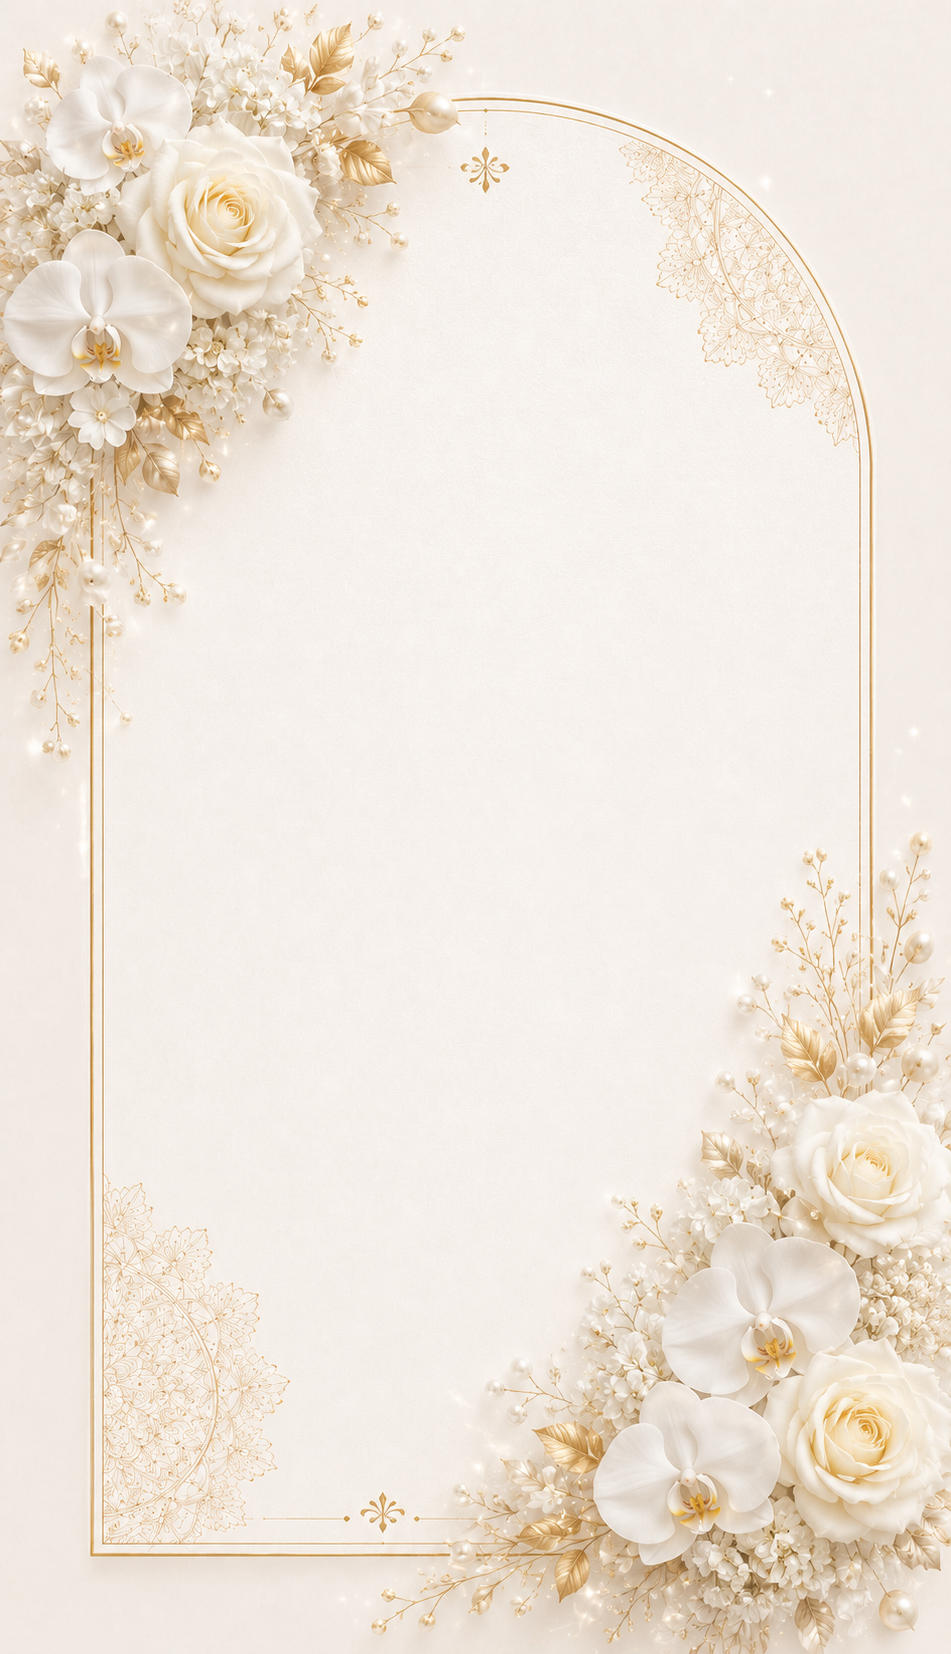
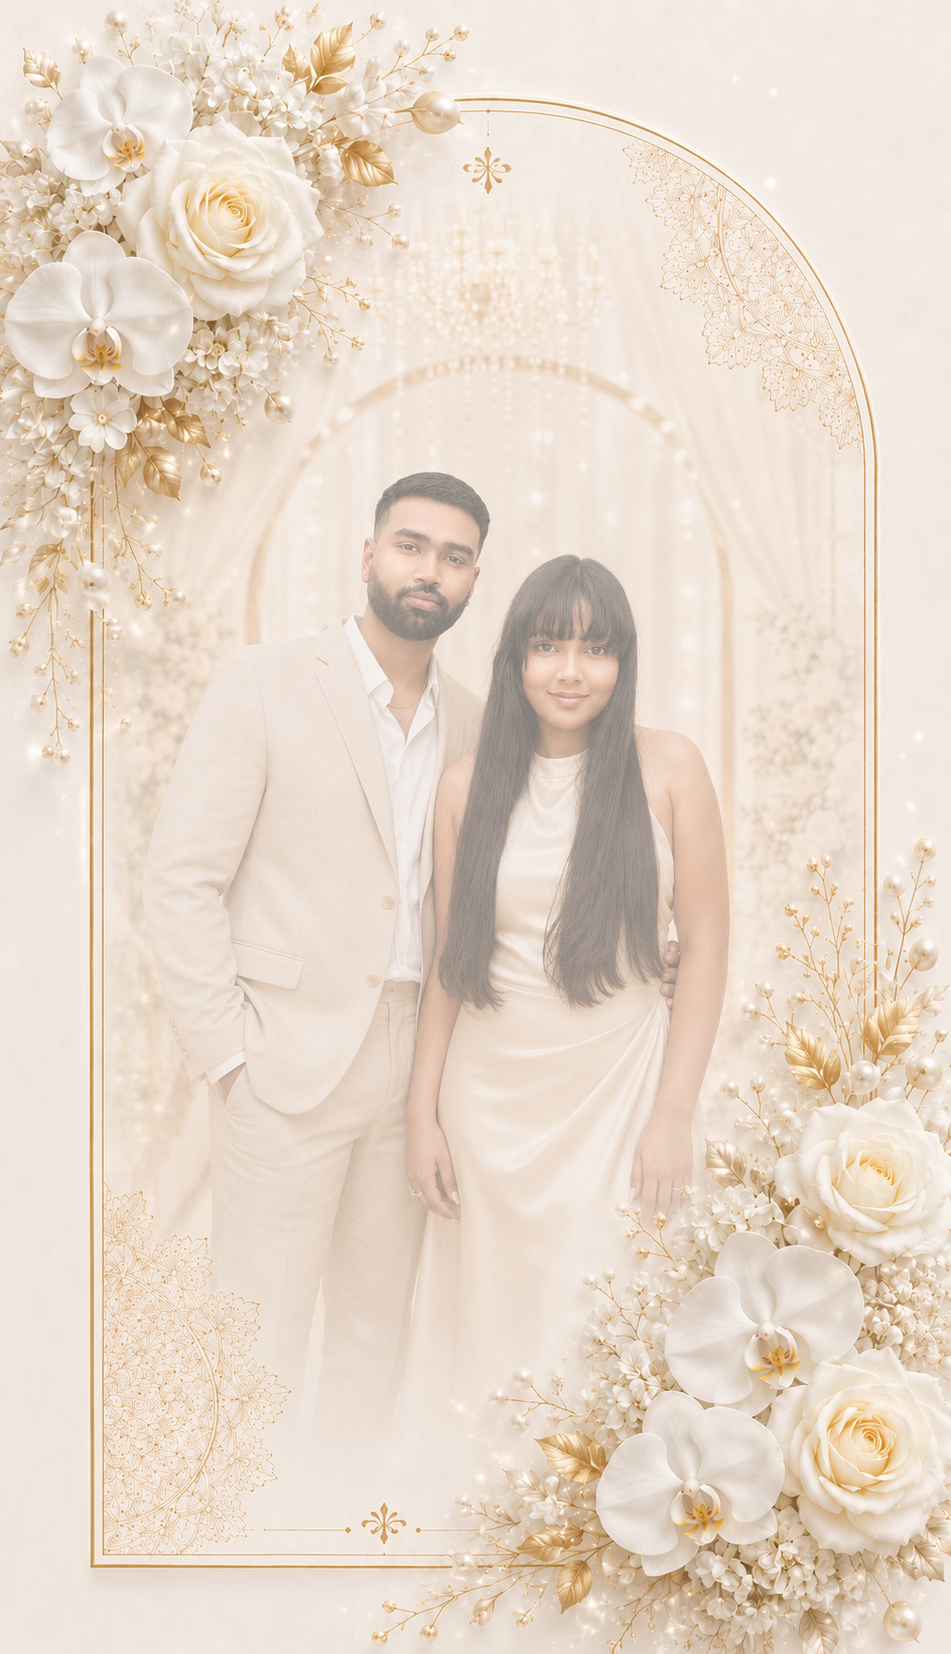
j

diff --git a/src/App.tsx b/src/App.tsx
@@ -251,6 +251,106 @@ function WeddingEnvelope({ onOpen }: { onOpen: () => void }) {
     </motion.div>
   );
 }
+function WelcomeSection() {
+  return (
+    <section className="cv-auto py-24 md:py-32 bg-white relative overflow-hidden border-t border-theme-100/30">
+      <div className="absolute inset-0 opacity-[0.02] paper-grain pointer-events-none" />
+      <div className="container mx-auto px-6 max-w-4xl relative z-10 text-center">
+        <motion.div initial={{ opacity: 0, y: 20 }} whileInView={{ opacity: 1, y: 0 }} viewport={{ once: true }}>
+          <h2 className="font-playball text-4xl md:text-5xl text-theme-900 mb-6 drop-shadow-sm">Welcome to Our Wedding</h2>
+          <div className="w-16 h-px bg-amber-400 mx-auto mb-8" />
+          <p className="text-stone-600 font-montserrat text-sm md:text-base leading-loose max-w-2xl mx-auto">
+            Love knows no distance or borders. What began miles apart has led us to this beautiful day. Thank you for celebrating the beginning of our forever. Your love and blessings mean the world to us.
+          </p>
+        </motion.div>
+      </div>
+    </section>
+  );
+}
+
+function OurStorySection() {
+  return (
+    <section className="cv-auto py-24 md:py-32 bg-white relative overflow-hidden border-t border-theme-100/30">
+      <div className="absolute inset-0 opacity-[0.02] paper-grain pointer-events-none" />
+      <div className="container mx-auto px-6 max-w-4xl relative z-10 text-center">
+        <motion.div initial={{ opacity: 0, y: 20 }} whileInView={{ opacity: 1, y: 0 }} viewport={{ once: true }}>
+          <h2 className="font-playball text-4xl md:text-5xl text-theme-900 mb-6 drop-shadow-sm">Our Story</h2>
+          <div className="w-16 h-px bg-amber-400 mx-auto mb-8" />
+          <p className="text-stone-600 font-montserrat text-sm md:text-base leading-loose max-w-2xl mx-auto">
+            From Canada to the United States, distance brought us closer rather than apart. Two years of love, trust, and unforgettable memories led us here. Today, we begin our forever together.
+          </p>
+        </motion.div>
+      </div>
+    </section>
+  );
+}
+
+function ProposalSection() {
+  return (
+    <section className="cv-auto py-24 md:py-32 bg-[#f0eceb] relative overflow-hidden border-t border-theme-100/30">
+      <div className="absolute inset-0 opacity-[0.02] paper-grain pointer-events-none" />
+      <div className="container mx-auto px-6 max-w-4xl relative z-10 text-center">
+        <motion.div initial={{ opacity: 0, y: 20 }} whileInView={{ opacity: 1, y: 0 }} viewport={{ once: true }}>
+          <h2 className="font-playball text-4xl md:text-5xl text-theme-900 mb-6 drop-shadow-sm">The Proposal</h2>
+          <div className="w-16 h-px bg-amber-400 mx-auto mb-8" />
+          <p className="text-stone-600 font-montserrat text-sm md:text-base leading-loose max-w-2xl mx-auto">
+            On December 24, 2024, beneath the lights of Central Park, New York City, Devshan asked Majori to spend forever with him. She said “Yes,” and our next chapter began. We can’t wait to celebrate with you on August 8, 2026.
+          </p>
+        </motion.div>
+      </div>
+    </section>
+  );
+}
+
+function EventTimeline() {
+  const events = [
+    { time: "11:00 AM", title: "Blessing Ceremony" },
+    { time: "12:00 PM", title: "Reception" },
+    { time: "04:00 PM", title: "Going Away" },
+  ];
+
+  return (
+    <section className="cv-auto py-24 bg-white relative overflow-hidden border-t border-theme-100/30">
+      <div className="absolute inset-0 opacity-[0.02] paper-grain pointer-events-none" />
+      <div className="container mx-auto px-6 max-w-4xl relative z-10">
+        <motion.div initial={{ opacity: 0, y: 20 }} whileInView={{ opacity: 1, y: 0 }} viewport={{ once: true }} className="text-center mb-16">
+          <h2 className="font-playball text-4xl md:text-5xl text-theme-900 mb-4 drop-shadow-sm">Event Timeline</h2>
+          <p className="text-[10px] md:text-xs uppercase tracking-[0.3em] text-stone-500 font-bold">The flow of our special day</p>
+        </motion.div>
+
+        <div className="relative max-w-xl mx-auto">
+          {/* Vertical line */}
+          <div className="absolute left-[24px] md:left-1/2 md:-translate-x-1/2 top-4 bottom-4 w-px bg-gradient-to-b from-amber-200 via-theme-300 to-amber-200" />
+
+          <div className="space-y-12">
+            {events.map((event, index) => (
+              <motion.div
+                key={index}
+                initial={{ opacity: 0, y: 20 }}
+                whileInView={{ opacity: 1, y: 0 }}
+                viewport={{ once: true }}
+                transition={{ delay: index * 0.2 }}
+                className="relative flex items-center md:justify-between w-full"
+              >
+                {/* Mobile Icon (Left) or Desktop Icon (Center) */}
+                <div className="absolute left-0 md:left-1/2 md:-translate-x-1/2 w-12 h-12 bg-[#f0eceb] rounded-full border-[3px] border-white shadow-[0_4px_15px_-3px_rgba(0,0,0,0.1)] flex items-center justify-center z-10">
+                  <div className="w-3 h-3 rounded-full bg-gradient-to-br from-amber-400 to-theme-500" />
+                </div>
+
+                {/* Content Box */}
+                <div className={`ml-16 md:ml-0 md:w-[calc(50%-3rem)] bg-white p-6 rounded-2xl shadow-sm border border-amber-100/60 hover:shadow-md transition-shadow relative group text-left ${index % 2 === 0 ? "md:mr-auto md:text-right" : "md:ml-auto md:text-left"}`}>
+                  <p className="font-cinzel text-xl text-theme-900 font-bold mb-1 tracking-wide">{event.time}</p>
+                  <p className="text-[11px] uppercase tracking-[0.2em] text-stone-500 font-bold">{event.title}</p>
+                </div>
+              </motion.div>
+            ))}
+          </div>
+        </div>
+      </div>
+    </section>
+  );
+}
+
 function RSVPForm() {
   const [status, setStatus] = useState<"idle" | "submitting" | "success">("idle");
   const [name, setName] = useState("");
@@ -622,6 +722,8 @@ export default function WeddingInvitation() {
 
             </section>
 
+            <WelcomeSection />
+
             {/* Wedding Details Section */}
             <section className="cv-auto py-24 md:py-32 w-full flex flex-col items-center px-4 relative">
               <div className="section-floral-overlay absolute top-0 left-0 w-full h-full pointer-events-none overflow-hidden z-0">
@@ -753,6 +855,8 @@ export default function WeddingInvitation() {
               </div>
             </section>
 
+            <OurStorySection />
+
             {/* Countdown Section */}
             <section className="cv-auto py-24 md:py-36 bg-[#f0eceb] relative border-y border-theme-100/30 flex flex-col items-center overflow-hidden">
               {/* Premium Background Elements */}
@@ -792,6 +896,8 @@ export default function WeddingInvitation() {
               </div>
             </section>
 
+            <ProposalSection />
+
             {/* Venue Location Section */}
             <section className="cv-auto py-24 md:py-36 bg-[#f0eceb] relative overflow-hidden">
               {/* Decorative Background */}
@@ -815,7 +921,7 @@ export default function WeddingInvitation() {
                         Earls Regency Kandy
                       </h2>
                       <p className="text-xs md:text-sm text-amber-600 font-bold uppercase tracking-[0.25em]">
-                        (Ballroom)
+                        (Regent Ballroom)
                       </p>
                     </div>
 
@@ -883,6 +989,7 @@ export default function WeddingInvitation() {
             </section>
 
 
+            <EventTimeline />
             <RSVPForm />
             <WishesForm />
 
@@ -917,15 +1024,23 @@ export default function WeddingInvitation() {
                         <span className="text-theme-700 mt-4 block tracking-[0.15em]">WE CAN'T WAIT TO CELEBRATE THIS SPECIAL DAY WITH YOU!</span>
                       </p>
 
-                      <motion.img
-                        initial={{ opacity: 0, y: 24, scale: 0.95 }}
-                        whileInView={{ opacity: 0.9, y: 0, scale: 1 }}
+                      <motion.div
+                        initial={{ opacity: 0, y: 30 }}
+                        whileInView={{ opacity: 1, y: 0 }}
                         viewport={{ once: true }}
-                        transition={{ duration: 0.9, ease: "easeOut" }}
-                        src={mandalaImage}
-                        alt=""
-                        className="relative z-10 mt-8 w-40 h-40 md:w-56 md:h-56 object-contain mix-blend-multiply drop-shadow-[0_12px_24px_rgba(245,158,11,0.25)]"
-                      />
+                        transition={{ duration: 1, delay: 0.2 }}
+                        className="relative z-10 mt-12 mb-8 w-full max-w-md mx-auto px-4"
+                      >
+                        <img 
+                          src="/WhatsApp Image 2026-07-04 at 03.20.35 (1).jpeg" 
+                          alt="Couple" 
+                          className="w-full h-auto object-cover rounded-[2rem] shadow-2xl border-[8px] border-white/60"
+                        />
+                      </motion.div>
+
+
+
+
                     </div>
                   </motion.div>
                 </div>

diff --git a/src/AppSinhala.tsx b/src/AppSinhala.tsx
@@ -251,6 +251,106 @@ function WeddingEnvelope({ onOpen }: { onOpen: () => void }) {
     </motion.div>
   );
 }
+function WelcomeSection() {
+  return (
+    <section className="cv-auto py-24 md:py-32 bg-white relative overflow-hidden border-t border-theme-100/30">
+      <div className="absolute inset-0 opacity-[0.02] paper-grain pointer-events-none" />
+      <div className="container mx-auto px-6 max-w-4xl relative z-10 text-center">
+        <motion.div initial={{ opacity: 0, y: 20 }} whileInView={{ opacity: 1, y: 0 }} viewport={{ once: true }}>
+          <h2 className="font-sinhala text-4xl md:text-5xl text-theme-900 mb-6 drop-shadow-sm">අපගේ විවාහ මංගල්යයට සාදරයෙන් පිළිගනිමු</h2>
+          <div className="w-16 h-px bg-amber-400 mx-auto mb-8" />
+          <p className="text-stone-600 font-sinhala text-sm md:text-base leading-loose max-w-2xl mx-auto">
+            ආදරයට දුරක් හෝ සීමාවන් නොමැත. සැතපුම් ගණනක් දුරින් ආරම්භ වූ අපගේ ආදරය අද මෙම සුන්දර දිනය දක්වා අපව රැගෙනවිත් තිබේ. අපගේ නව දිවියේ ආරම්භය සැමරීමට එක්වීම ගැන ඔබට ස්තූතියි. ඔබගේ ආදරය සහ ආශිර්වාදය අපට ඉතා අගනේය.
+          </p>
+        </motion.div>
+      </div>
+    </section>
+  );
+}
+
+function OurStorySection() {
+  return (
+    <section className="cv-auto py-24 md:py-32 bg-white relative overflow-hidden border-t border-theme-100/30">
+      <div className="absolute inset-0 opacity-[0.02] paper-grain pointer-events-none" />
+      <div className="container mx-auto px-6 max-w-4xl relative z-10 text-center">
+        <motion.div initial={{ opacity: 0, y: 20 }} whileInView={{ opacity: 1, y: 0 }} viewport={{ once: true }}>
+          <h2 className="font-sinhala text-4xl md:text-5xl text-theme-900 mb-6 drop-shadow-sm">අපගේ කතාව</h2>
+          <div className="w-16 h-px bg-amber-400 mx-auto mb-8" />
+          <p className="text-stone-600 font-sinhala text-sm md:text-base leading-loose max-w-2xl mx-auto">
+            කැනඩාවේ සිට ඇමරිකා එක්සත් ජනපදයට, දුරස්වීම අපව තවත් සමීප කළේය. වසර දෙකක ආදරය, විශ්වාසය සහ අමතක නොවන මතකයන් අපව මෙහි ගෙන ආවේය. අද, අපි අපගේ සදාකාලික ගමන එකට අරඹමු.
+          </p>
+        </motion.div>
+      </div>
+    </section>
+  );
+}
+
+function ProposalSection() {
+  return (
+    <section className="cv-auto py-24 md:py-32 bg-[#f0eceb] relative overflow-hidden border-t border-theme-100/30">
+      <div className="absolute inset-0 opacity-[0.02] paper-grain pointer-events-none" />
+      <div className="container mx-auto px-6 max-w-4xl relative z-10 text-center">
+        <motion.div initial={{ opacity: 0, y: 20 }} whileInView={{ opacity: 1, y: 0 }} viewport={{ once: true }}>
+          <h2 className="font-sinhala text-4xl md:text-5xl text-theme-900 mb-6 drop-shadow-sm">ආදර ඇරයුම</h2>
+          <div className="w-16 h-px bg-amber-400 mx-auto mb-8" />
+          <p className="text-stone-600 font-sinhala text-sm md:text-base leading-loose max-w-2xl mx-auto">
+            2024 දෙසැම්බර් 24 වන දින, නිව් යෝර්ක් නුවර සෙන්ට්රල් පාර්ක් හි විදුලි පහන් එළිය යට, තම ජීවිතයේ ඉතිරි කාලය එකට ගත කිරීමට දෙව්ශාන් මජෝරිට ආරාධනා කළේය. ඇය "ඔව්" යැයි පැවසූ අතර, අපගේ මීළඟ පරිච්ඡේදය ආරම්භ විය. 2026 අගෝස්තු 8 වන දින ඔබ සමඟ මෙය සැමරීමට අපි නොඉවසිල්ලෙන් බලා සිටිමු.
+          </p>
+        </motion.div>
+      </div>
+    </section>
+  );
+}
+
+function EventTimeline() {
+  const events = [
+    { time: "පෙ.ව. 11:00", title: "ආශිර්වාද කිරීමේ උත්සවය" },
+    { time: "ප.ව. 12:00", title: "පිළිගැනීමේ උත්සවය" },
+    { time: "ප.ව. 04:00", title: "පිටත්ව යාම" },
+  ];
+
+  return (
+    <section className="cv-auto py-24 bg-white relative overflow-hidden border-t border-theme-100/30">
+      <div className="absolute inset-0 opacity-[0.02] paper-grain pointer-events-none" />
+      <div className="container mx-auto px-6 max-w-4xl relative z-10">
+        <motion.div initial={{ opacity: 0, y: 20 }} whileInView={{ opacity: 1, y: 0 }} viewport={{ once: true }} className="text-center mb-16">
+          <h2 className="font-sinhala text-4xl md:text-5xl text-theme-900 mb-4 drop-shadow-sm">උත්සව මාලාව</h2>
+          <p className="text-[10px] md:text-xs uppercase tracking-[0.3em] text-stone-500 font-bold">මෙම විශේෂ දිනයේ කාලසටහන</p>
+        </motion.div>
+
+        <div className="relative max-w-xl mx-auto">
+          {/* Vertical line */}
+          <div className="absolute left-[24px] md:left-1/2 md:-translate-x-1/2 top-4 bottom-4 w-px bg-gradient-to-b from-amber-200 via-theme-300 to-amber-200" />
+
+          <div className="space-y-12">
+            {events.map((event, index) => (
+              <motion.div
+                key={index}
+                initial={{ opacity: 0, y: 20 }}
+                whileInView={{ opacity: 1, y: 0 }}
+                viewport={{ once: true }}
+                transition={{ delay: index * 0.2 }}
+                className="relative flex items-center md:justify-between w-full"
+              >
+                {/* Mobile Icon (Left) or Desktop Icon (Center) */}
+                <div className="absolute left-0 md:left-1/2 md:-translate-x-1/2 w-12 h-12 bg-[#f0eceb] rounded-full border-[3px] border-white shadow-[0_4px_15px_-3px_rgba(0,0,0,0.1)] flex items-center justify-center z-10">
+                  <div className="w-3 h-3 rounded-full bg-gradient-to-br from-amber-400 to-theme-500" />
+                </div>
+
+                {/* Content Box */}
+                <div className={`ml-16 md:ml-0 md:w-[calc(50%-3rem)] bg-white p-6 rounded-2xl shadow-sm border border-amber-100/60 hover:shadow-md transition-shadow relative group text-left ${index % 2 === 0 ? "md:mr-auto md:text-right" : "md:ml-auto md:text-left"}`}>
+                  <p className="font-sinhala text-xl md:text-2xl text-theme-900 font-bold mb-1 tracking-wide">{event.time}</p>
+                  <p className="text-[11px] md:text-xs uppercase tracking-[0.2em] text-stone-500 font-bold">{event.title}</p>
+                </div>
+              </motion.div>
+            ))}
+          </div>
+        </div>
+      </div>
+    </section>
+  );
+}
+
 function RSVPForm() {
   const [status, setStatus] = useState<"idle" | "submitting" | "success">("idle");
   const [name, setName] = useState("");
@@ -622,6 +722,8 @@ export default function WeddingInvitationSinhala() {
 
             </section>
 
+            <WelcomeSection />
+
             {/* මංගල විස්තර Section */}
             <section className="cv-auto py-24 md:py-32 w-full flex flex-col items-center px-4 relative">
               <div className="section-floral-overlay absolute top-0 left-0 w-full h-full pointer-events-none overflow-hidden z-0">
@@ -753,6 +855,8 @@ export default function WeddingInvitationSinhala() {
               </div>
             </section>
 
+            <OurStorySection />
+
             {/* Countdown Section */}
             <section className="cv-auto py-24 md:py-36 bg-[#f0eceb] relative border-y border-theme-100/30 flex flex-col items-center overflow-hidden">
               {/* Premium Background Elements */}
@@ -792,6 +896,8 @@ export default function WeddingInvitationSinhala() {
               </div>
             </section>
 
+            <ProposalSection />
+
             {/* Venue Location Section */}
             <section className="cv-auto py-24 md:py-36 bg-[#f0eceb] relative overflow-hidden">
               {/* Decorative Background */}
@@ -815,7 +921,7 @@ export default function WeddingInvitationSinhala() {
                         Earls Regency නුවර
                       </h2>
                       <p className="text-xs md:text-sm text-amber-600 font-bold uppercase tracking-[0.25em]">
-                        (Ballroom)
+                        (Regent Ballroom)
                       </p>
                     </div>
 
@@ -883,6 +989,7 @@ export default function WeddingInvitationSinhala() {
             </section>
 
 
+            <EventTimeline />
             <RSVPForm />
             <WishesForm />
 
@@ -917,15 +1024,23 @@ export default function WeddingInvitationSinhala() {
                         <span className="text-theme-700 mt-4 block tracking-[0.15em]">මෙම සුවිශේෂී දිනය ඔබ සමඟ සැමරීමට අපි බලා සිටිමු!</span>
                       </p>
 
-                      <motion.img
-                        initial={{ opacity: 0, y: 24, scale: 0.95 }}
-                        whileInView={{ opacity: 0.9, y: 0, scale: 1 }}
+                      <motion.div
+                        initial={{ opacity: 0, y: 30 }}
+                        whileInView={{ opacity: 1, y: 0 }}
                         viewport={{ once: true }}
-                        transition={{ duration: 0.9, ease: "easeOut" }}
-                        src={mandalaImage}
-                        alt=""
-                        className="relative z-10 mt-8 w-40 h-40 md:w-56 md:h-56 object-contain mix-blend-multiply drop-shadow-[0_12px_24px_rgba(245,158,11,0.25)]"
-                      />
+                        transition={{ duration: 1, delay: 0.2 }}
+                        className="relative z-10 mt-12 mb-8 w-full max-w-md mx-auto px-4"
+                      >
+                        <img 
+                          src="/WhatsApp Image 2026-07-04 at 03.20.35 (1).jpeg" 
+                          alt="Couple" 
+                          className="w-full h-auto object-cover rounded-[2rem] shadow-2xl border-[8px] border-white/60"
+                        />
+                      </motion.div>
+
+
+
+
                     </div>
                   </motion.div>
                 </div>